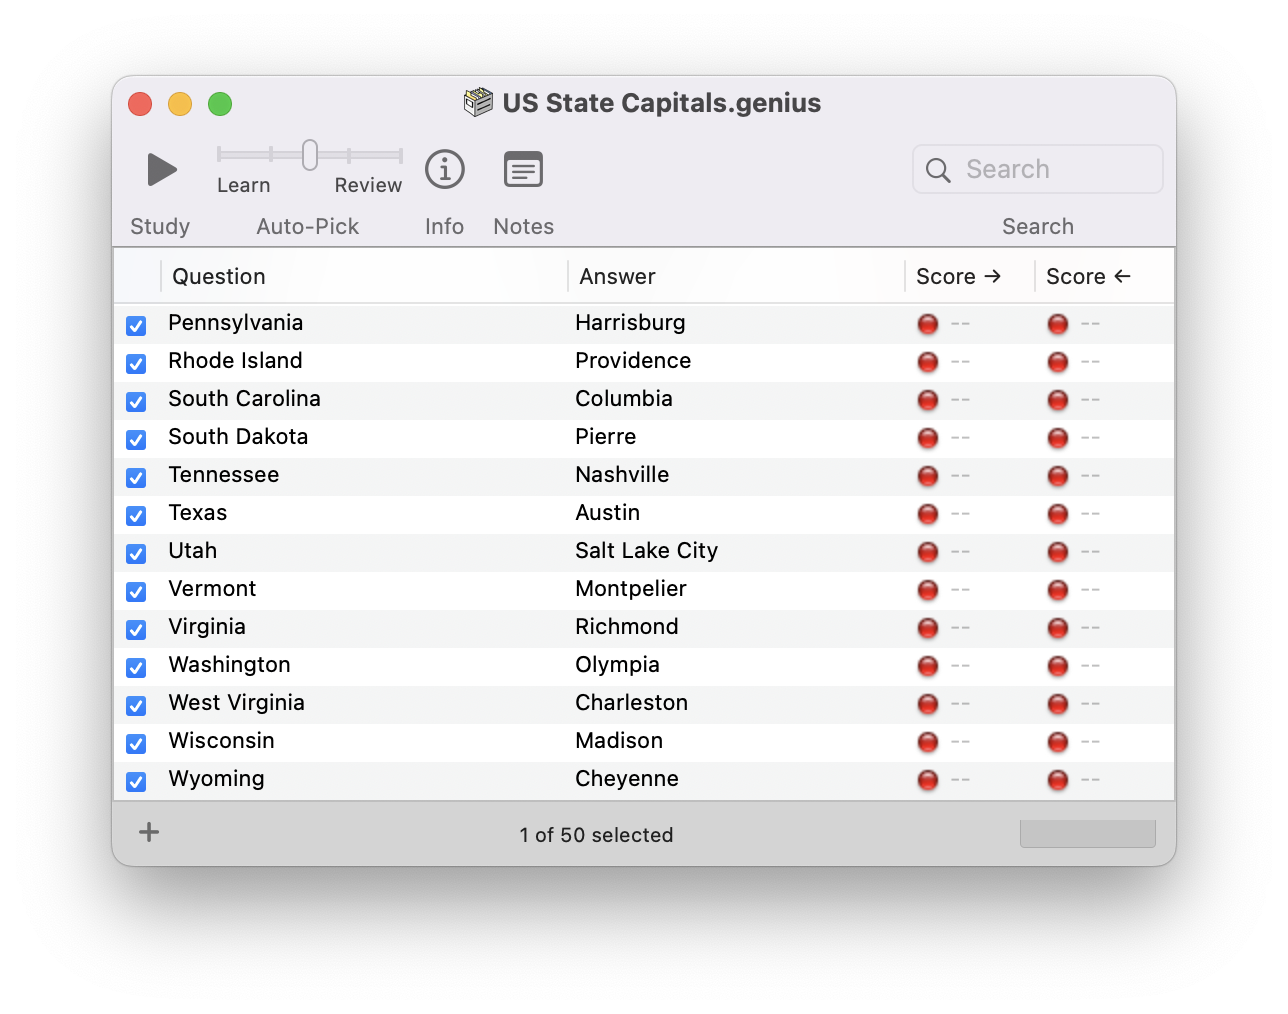
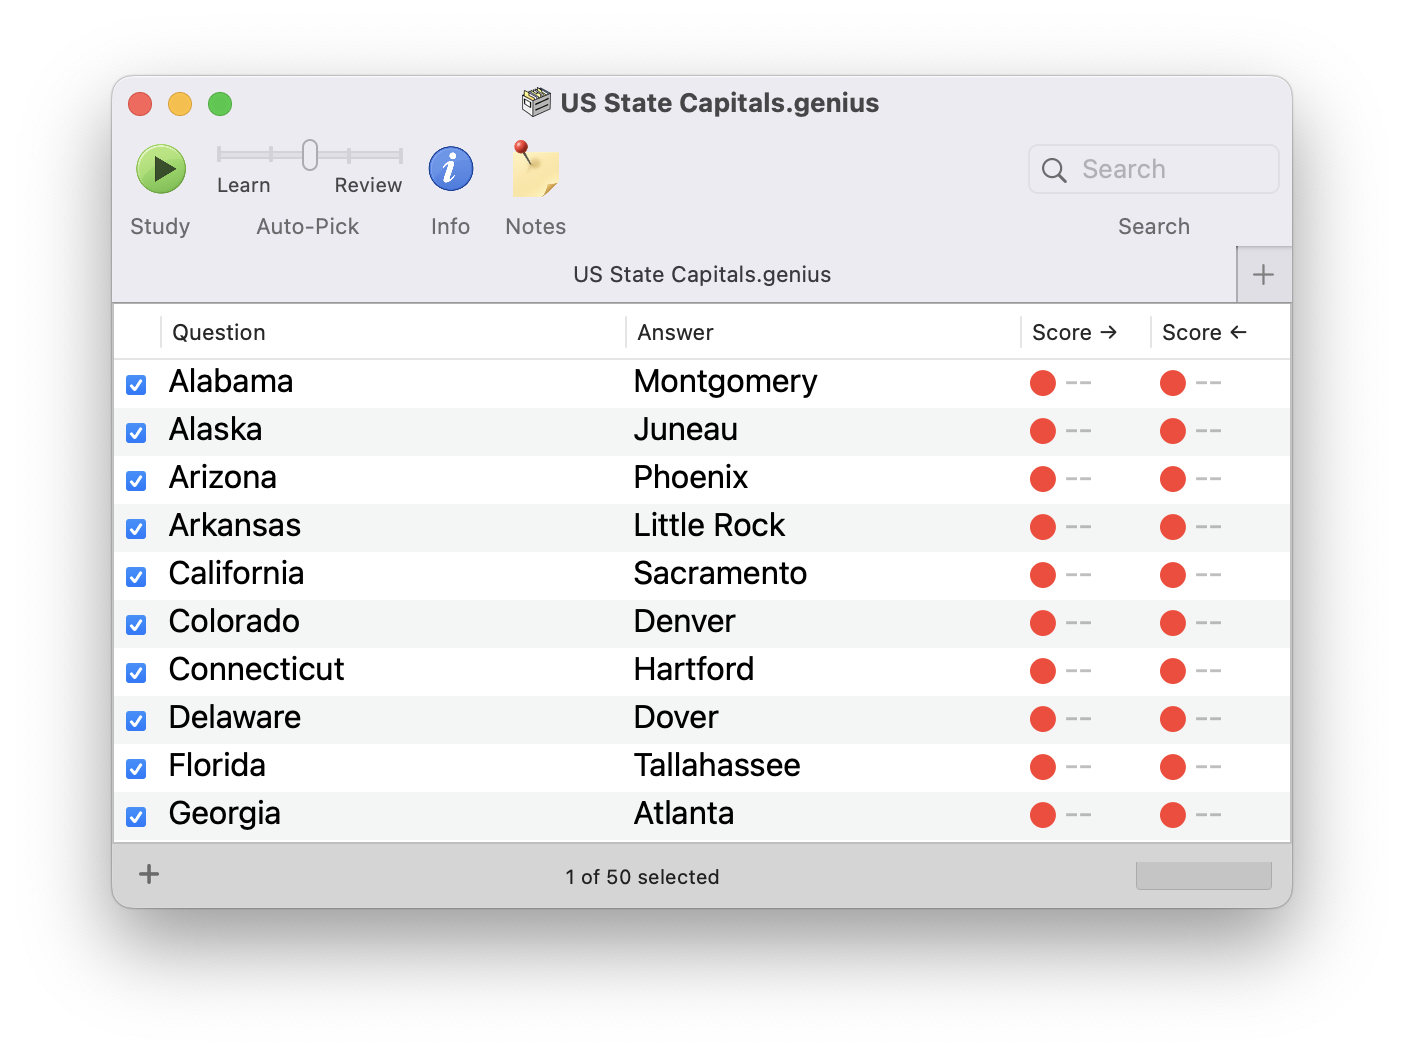
feat!: increment version to 1.8.0
It's been so long since the last 1.7.x release that I think it's time
to bump the version.

I've also updated the README and fixed the toolbar icons.

Changed region(s): [[0.0621, 0.0611, 0.9317, 0.8866], [0.7143, 0.1529, 0.8385, 0.1834]]

diff --git a/Genius1/GeniusToolbar.m b/Genius1/GeniusToolbar.m
@@ -89,7 +89,7 @@ NSString * GeniusToolbarSearchItemIdentifier = @"Search";
         {
             NSString * label = NSLocalizedString(@"Info", nil);
             [toolbarItem setLabel:label];
-            toolbarItem.image = [NSImage imageNamed:@"information-retina"];
+            toolbarItem.image = [NSImage imageNamed:@"inspector-retina"];
             
             [toolbarItem setTarget:infoDrawer];
             [toolbarItem setAction:@selector(toggle:)];
@@ -98,7 +98,7 @@ NSString * GeniusToolbarSearchItemIdentifier = @"Search";
         {
             NSString * label = NSLocalizedString(@"Notes", nil);
             [toolbarItem setLabel:label];
-            toolbarItem.image = [NSImage imageNamed:@"inspector-retina"];
+            toolbarItem.image = [NSImage imageNamed:@"information-retina"];
     
             [toolbarItem setTarget:self];
             [toolbarItem setAction:@selector(showNotes:)];

diff --git a/README.md b/README.md
@@ -20,16 +20,18 @@ Copyright ® 2007–08 Chris Miner.
 [Genius](https://sourceforge.net/projects/genius/)
 ~~was~~ **is** a flashcard-style memorisation app for Mac OS: 
 
-
 <p align="center">
     <img src="https://a.fsdn.com/con/app/proj/genius/screenshots/152532.jpg/max/max/1"/>
 </p>
 
-I used this religiously to get through my secondary school French and Irish exams, it has always since been the flashcard app I've held others up against. I've never managed to 'get' Anki - there's something about the flow state of repetitively hammering out answers over and over that cements them into my brain better than just flipping cards over.
+I used to use Genius religiously to get through my secondary school French and Irish exams, and since then it has always been the flashcard app I've held others up against.
+It really is just a neat little app.
 
 Since then, the MacOS ecosystem has obviously changed quite a fair bit, and so none of the builds available online work anymore. It seems the last straw was Apple enforcing 64-bit only binaries.
 
-As it turns out though, the entire project is GPL, and the whole project is [_still_ hosted on SourceForge](https://svn.code.sf.net/p/genius/code/trunk/)! With some helpful hinting from Claude, I have managed to get the app built and running on arm64 macOS:
+As it turns out though, the entire project is GPL, and the whole project is [_still_ hosted on SourceForge](https://svn.code.sf.net/p/genius/code/trunk/)!
+With some helpful hinting from Claude, I have managed to get the app built and running on arm64 macOS.
+I have also taken the liberty to upscale the icons now we're in the age of retina displays:
 
 <p align="center">
     <img src="screenshot.png" align="center">
@@ -39,13 +41,16 @@ Incredibly the only barriers to getting a fully-working build were:
 
 - Updating the settings to use the latest macOS SDKs
 - Fixing a return type (`NSComparisonResult` vs `int`; I suspect the compiler got stricter since 2008?)
-- Turning off sandboxing for building the DMG - I was getting permission errors, and I presume modern ways of building DMGs don't attempt to just write directly to the XCode build directory
+- Turning off sandboxing, for building the DMG - I was getting permission errors, and I presume modern ways of building DMGs don't attempt to just write directly to the Xcode build directory
 
-There are still a few rough edges left sand, but the core functionality works! It's quite surreal seeing my favourite app from nearly 20 years ago running, natively, under the latest macOS release.
+I wrote a longer form post about this on [my blog](https://andrewshaw.nl/blog/reviving-genius) which you might find interesting.
 
 ## Project
 
-At the moment this repo is a git mirror of the above SVN repo, with the bare minium getting it to work. The main code repository is in `Genius1`†. Note that the original code is licensed under the GPL, thus so is this. See `COPYING.txt`.
+At the moment this repo is a git mirror of the above SVN repo, with the bare minium getting it to work.
+The main code repository is in `Genius1`†.
+Note that the original code is licensed under the GPL, thus so is this.
+See `COPYING.txt`.
 
 I have forked the history as of the _SVN revision #250_, which referenced updates to the release notes.
 
@@ -59,27 +64,18 @@ You can find three branches:
 
 You should be able to build a binary/DMG by opening this in XCode, then just pressing build.
 
+Given the likelihood of breaking changes (good luck runnning this on Tiger), and in deference to the old history, I've given this branch the `1.8.x` version number.
+
 ---
 
-†: `Genius2` on `master` is an interesting piece of archaeology - it looks like there was an attempt to bring the app up to date with 'modern' OS X APIs, as well as introduce new features like images, rich text, and a different spaced repetition algorithm. It was eventually abandoned. See the `TODO.txt`.
+†: `Genius2` on `master` is an interesting piece of archaeology - it looks like there was an attempt to bring the app up to date with 'modern' OS X APIs, as well as introduce new features like images, rich text, and a different spaced repetition algorithm.
+It was eventually abandoned.
+See the `TODO.txt`.
 
 If I had to guess, I reckon develoment stalled right around the time Anki was starting to take off, and the developer just picked that up instead.
 
 ## Roadmap
 
-Everyone loves a Roadmap, but ultimately I'd consider the app 'finished', or at least feature complete. It serves my needs as-is.
+Everyone loves a Roadmap, but ultimately I'd consider the app 'finished', or at least feature complete. It serves it's purpose as-is.
 
-The only tasks I have in mind are:
-
-- ~~Fix the toolbar~~
-- Track down Chris Miner and John R. Chang and let them know about this
-- Fix/explore card 'groups' and 'types'. These are features I never actually used, but they seem to be broken.
-- Put up a DMG on Github for others to use more easily, and reach out to the various souls on Sourceforge looking for new builds
-
-I don't see it being warranted, but development could 'continue' on the app if someone wanted?
-
-Down the line I could imagine:
-
-- CI/CD
-- Anki Deck importer
-- Maybe a SwiftUI rewrite? I don't know about this really - the Obj-C codebase here works perfectly fine.
+All I can really think of that's missing is to put up a DMG on Github for others to use more easily, and reach out to the various lost souls on Sourceforge looking for new builds.
